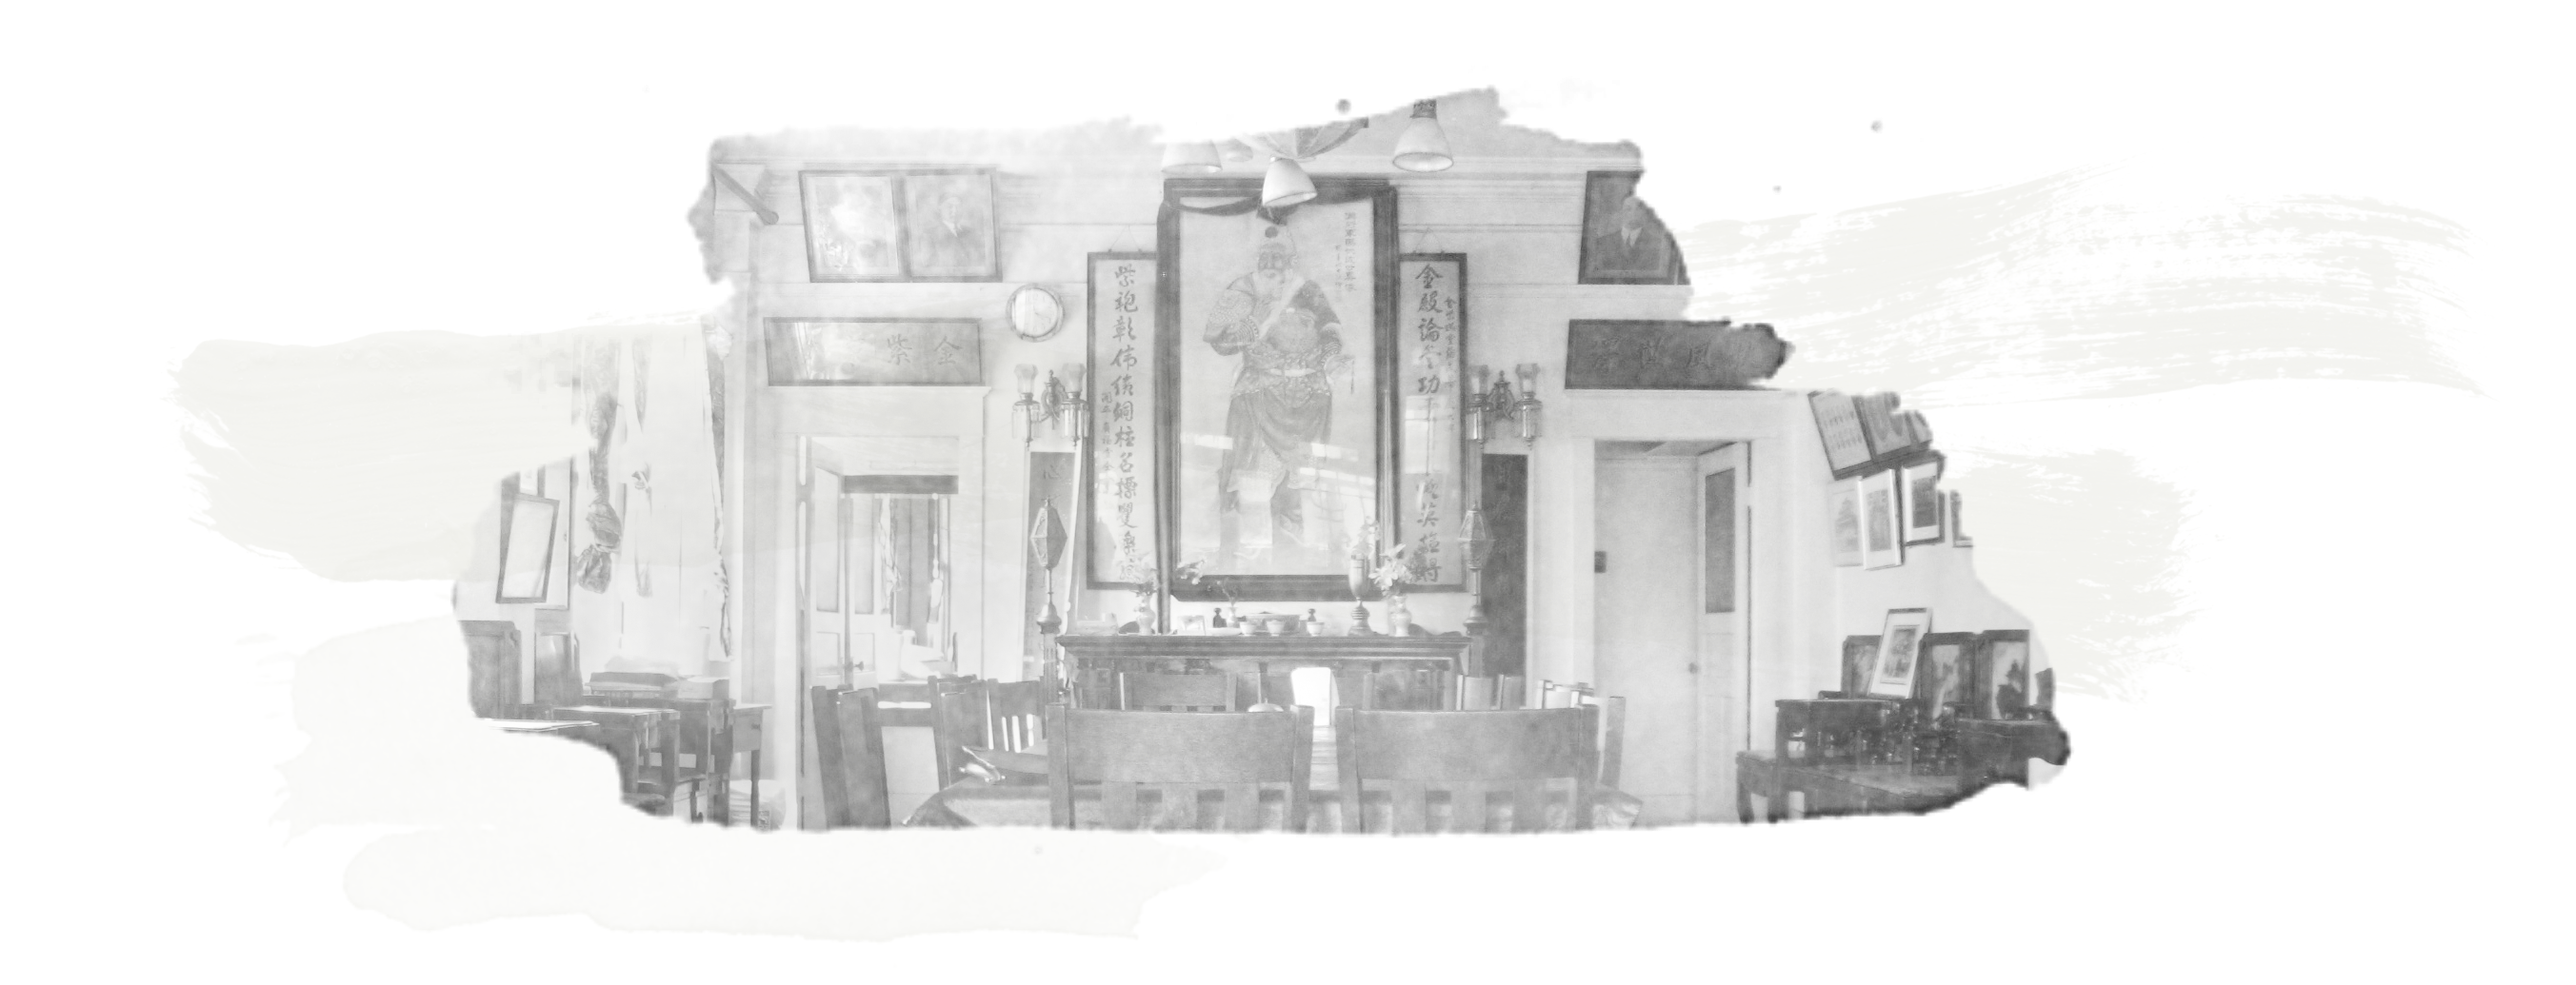
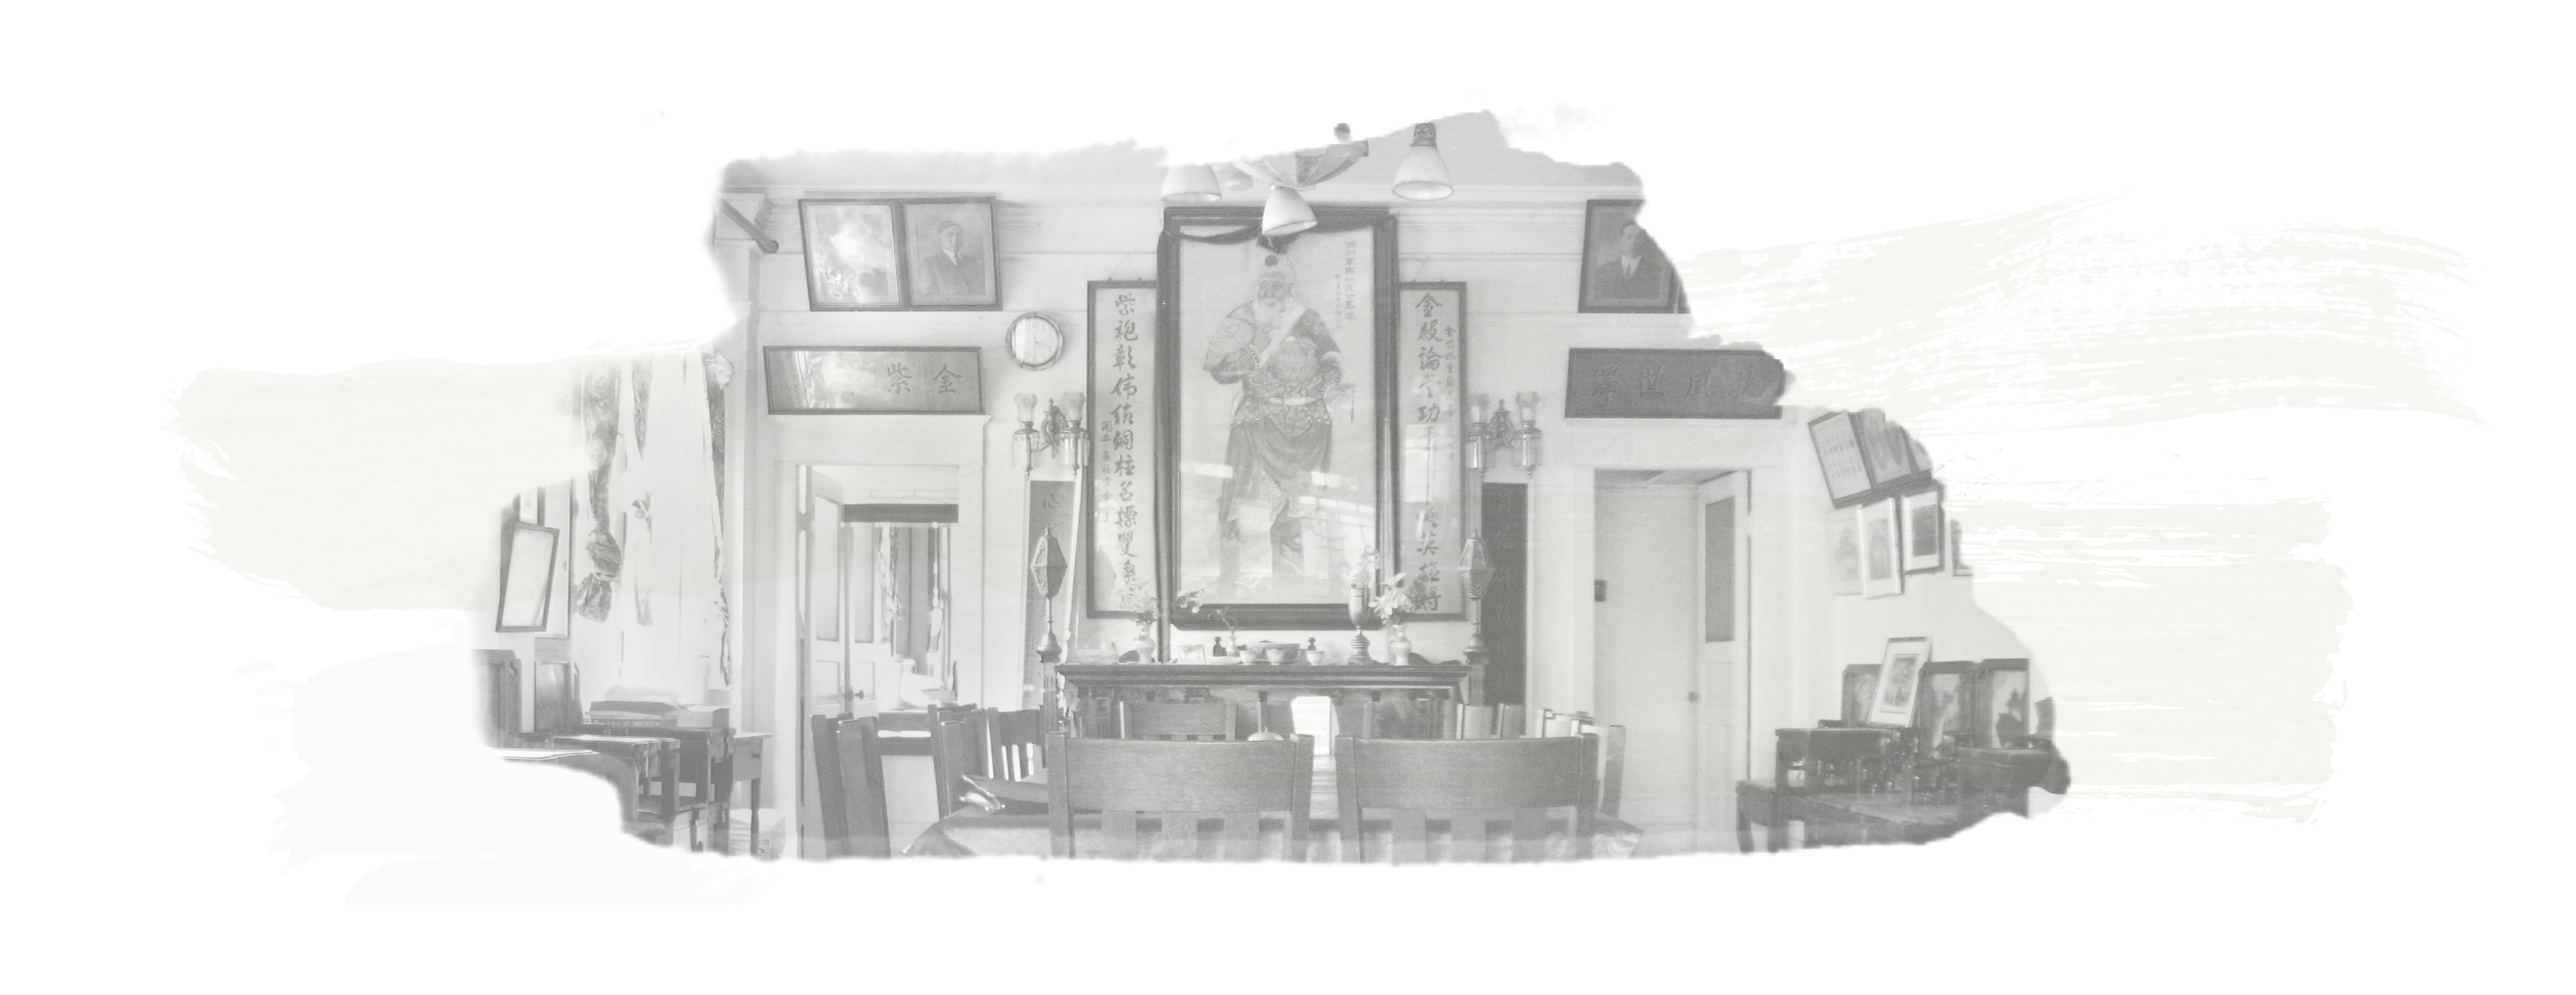
edit stylings

Changed region(s): [[0.1553, 0.0928, 0.8074, 0.8657], [0.6521, 0.6184, 0.6832, 0.6493]]

diff --git a/app/page.html b/app/page.html
@@ -57,7 +57,7 @@
         </nav>
         <div class='m-nav__overlay'></div>
 
-        <header class='l-header u-padding-top-10 u-padding-bottom-4'>
+        <header class='l-header u-padding-top-10 u-padding-bottom-5'>
             <div class='l-header__bg--fade' style='background-image:url("images/societies-header.png");'></div>
             <div class='l-section__content u-padding-top-5 u-flex-justify-center'>
                 <div>
@@ -103,10 +103,10 @@
 
         <section class='l-section u-margin-top-4 u-margin-bottom-7'>
             <div class='l-section__content u-flex-justify-center'>
-                <div class='l-module--society-list'>
+                <div class='l-module'>
                     <h3>Societies with Heritage Buildings <span class='o-label u-margin-left-0'>12 Buildings Total</span></h3>
 
-                    <div class='l-module--society-list-item u-margin-top-2'>
+                    <div class='l-module--society-list u-margin-top-2'>
                         <img src='http://placehold.it/500x400'>
                         <div>
                             <h4 class='u-color-primary'>Yue Shan Society</h4>
@@ -114,54 +114,53 @@
                             <a class='o-button--link-secondary' href='#'>Learn More</a>
                         </div>
                     </div>
-                    <div class='l-module--society-list-item u-margin-top-2'>
-                        <img src='http://placehold.it/500x400'>
+                </div>
+            </div>
+        </section>
+
+        <section class='l-section'>
+            <div class='l-section__content u-flex-justify-center'>
+                <div class='l-module'>
+                    <h3 class='u-margin-bottom-1'>Relevant Studies</h3>
+
+                    <div class='l-module--initiative-study u-margin-top-1'>
+                        <h4 class='u-margin-top-none'>Revitalizing Chinatown in Downtown Vancouver</h4>
+                        <p class='u-margin-top-none'><span class='o-label u-block u-margin-bottom-0'>summary</span> Lorem, ipsum dolor sit amet consectetur adipisicing elit. Veniam harum labore itaque facilis officiis commodi laudantium autem, minima corporis debitis.</p>
                         <div>
-                            <h4 class='u-color-primary'>Yue Shan Society</h4>
-                            <p>Lorem ipsum, dolor sit amet consectetur adipisicing elit. Libero eligendi sed dignissimos reprehenderit sunt rem necessitatibus? Blanditiis soluta delectus accusamus maxime amet nisi eos quisquam eum sit minima! Dignissimos, sapiente?</p>
-                            <a class='o-button--link-secondary' href='#'>Learn More</a>
+                            <span class='o-label'>Published</span>
+                            <p>July 23, 2017</p>
                         </div>
+                        <a class='o-button--link' href='#'>Link <span class='fa fa-link u-margin-left--1'></span></a>
                     </div>
-                    <div class='l-module--society-list-item u-margin-top-2'>
-                        <img src='http://placehold.it/500x400'>
+                    <div class='l-module--initiative-study'>
+                        <h4 class='u-margin-top-none'>Revitalizing Chinatown in Downtown Vancouver</h4>
+                        <p class='u-margin-top-none'><span class='o-label u-block u-margin-bottom-0'>summary</span> Lorem, ipsum dolor sit amet consectetur adipisicing elit. Veniam harum labore itaque facilis officiis commodi laudantium autem, minima corporis debitis.</p>
                         <div>
-                            <h4 class='u-color-primary'>Mah Benevolent Society</h4>
-                            <p>Lorem ipsum, dolor sit amet consectetur adipisicing elit. Libero eligendi sed dignissimos reprehenderit sunt rem necessitatibus? Blanditiis soluta delectus accusamus maxime amet nisi eos quisquam eum sit minima! Dignissimos, sapiente?</p>
-                            <a class='o-button--link-secondary' href='#'>Learn More</a>
+                            <span class='o-label'>Published</span>
+                            <p>July 23, 2017</p>
                         </div>
+                        <a class='o-button--link' href='#'>Link <span class='fa fa-link u-margin-left--1'></span></a>
                     </div>
-                    <div class='l-module--society-list-item u-margin-top-2'>
-                        <img src='http://placehold.it/500x400'>
+                    <div class='l-module--initiative-study'>
+                        <h4 class='u-margin-top-none'>Revitalizing Chinatown in Downtown Vancouver</h4>
+                        <p class='u-margin-top-none'><span class='o-label u-block u-margin-bottom-0'>summary</span> Lorem, ipsum dolor sit amet consectetur adipisicing elit. Veniam harum labore itaque facilis officiis commodi laudantium autem, minima corporis debitis.</p>
                         <div>
-                            <h4 class='u-color-primary'>Yue Shan Society</h4>
-                            <p>Lorem ipsum, dolor sit amet consectetur adipisicing elit. Libero eligendi sed dignissimos reprehenderit sunt rem necessitatibus? Blanditiis soluta delectus accusamus maxime amet nisi eos quisquam eum sit minima! Dignissimos, sapiente?</p>
-                            <a class='o-button--link-secondary' href='#'>Learn More</a>
+                            <span class='o-label'>Published</span>
+                            <p>July 23, 2017</p>
                         </div>
+                        <a class='o-button--link' href='#'>Link <span class='fa fa-link u-margin-left--1'></span></a>
                     </div>
-                    <div class='l-module--society-list-item u-margin-top-2'>
-                        <img src='http://placehold.it/500x400'>
+                    <div class='l-module--initiative-study'>
+                        <h4 class='u-margin-top-none'>Revitalizing Chinatown in Downtown Vancouver</h4>
+                        <p class='u-margin-top-none'><span class='o-label u-block u-margin-bottom-0'>summary</span> Lorem, ipsum dolor sit amet consectetur adipisicing elit. Veniam harum labore itaque facilis officiis commodi laudantium autem, minima corporis debitis.</p>
                         <div>
-                            <h4 class='u-color-primary'>Yue Shan Society</h4>
-                            <p>Lorem ipsum, dolor sit amet consectetur adipisicing elit. Libero eligendi sed dignissimos reprehenderit sunt rem necessitatibus? Blanditiis soluta delectus accusamus maxime amet nisi eos quisquam eum sit minima! Dignissimos, sapiente?</p>
-                            <a class='o-button--link-secondary' href='#'>Learn More</a>
+                            <span class='o-label'>Published</span>
+                            <p>July 23, 2017</p>
                         </div>
+                        <a class='o-button--link' href='#'>Link <span class='fa fa-link u-margin-left--1'></span></a>
                     </div>
-                    <div class='l-module--society-list-item u-margin-top-2'>
-                        <img src='http://placehold.it/500x400'>
-                        <div>
-                            <h4 class='u-color-primary'>Yue Shan Society</h4>
-                            <p>Lorem ipsum, dolor sit amet consectetur adipisicing elit. Libero eligendi sed dignissimos reprehenderit sunt rem necessitatibus? Blanditiis soluta delectus accusamus maxime amet nisi eos quisquam eum sit minima! Dignissimos, sapiente?</p>
-                            <a class='o-button--link-secondary' href='#'>Learn More</a>
-                        </div>
-                    </div>
-                    <div class='l-module--society-list-item u-margin-top-2'>
-                        <img src='http://placehold.it/500x400'>
-                        <div>
-                            <h4 class='u-color-primary'>Yue Shan Society</h4>
-                            <p>Lorem ipsum, dolor sit amet consectetur adipisicing elit. Libero eligendi sed dignissimos reprehenderit sunt rem necessitatibus? Blanditiis soluta delectus accusamus maxime amet nisi eos quisquam eum sit minima! Dignissimos, sapiente?</p>
-                            <a class='o-button--link-secondary' href='#'>Learn More</a>
-                        </div>
-                    </div>
+
+
                 </div>
             </div>
         </section>

diff --git a/app/initiatives.html b/app/initiatives.html
@@ -57,12 +57,11 @@
         </nav>
         <div class='m-nav__overlay'></div>
 
-        <header class='l-header u-padding-top-10 u-padding-bottom-4'>
-            <div class='l-header__bg--fade' style='background-image:url("images/test.png");'></div>
-            <div class='l-section__content u-padding-top-5 u-flex-justify-center'>
-                <div class='u-type-center'>
+        <header class='l-header u-padding-top-7 u-padding-bottom-4'>
+            <div class='l-section__content u-padding-top-5'>
+                <div>
                     <span class='o-label u-color-secondary-accent'>Societies</span>
-                    <h1 class='u-stroke-text u-stroke-2 u-type-contain-large'>Building Plannings and Development Grant Program<span>華埠僑團傳</span></h1>
+                    <h1 class='u-type-contain-large'>Building Plannings and Development Grant Program</h1>
                     <p class='u-type-subtitle u-inline-block u-type-contain u-color-dark'>The Building Plannings Grant Program lets us start with the question of what is economical and right for the neighbourhood.</p>
                 </div>
             </div>
@@ -76,7 +75,7 @@
 
         <section class='l-section'>
             <div class='l-section__content u-flex-justify-center'>
-                <figure class='l-module--img-full u-margin-top-2 u-margin-bottom-3'>
+                <figure class='l-module--img-full u-margin-top-2 u-margin-bottom-5'>
                     <img src='images/test.png'>
                 </figure>
 
@@ -85,6 +84,8 @@
                         <p>Lorem ipsum dolor sit amet consectetur adipisicing elit. Ex assumenda nam vel tenetur molestiae nostrum et deserunt nesciunt vitae veritatis perferendis doloribus consectetur doloremque placeat porro voluptas earum, labore praesentium asperiores rerum, incidunt ad provident? Odit, quidem neque animi nostrum, accusantium saepe eum facilis non, architecto ducimus perferendis cumque nemo fuga possimus quibusdam mollitia at numquam? Blanditiis, quasi cupiditate. Molestiae earum hic nam ea facilis iste perferendis reprehenderit aliquam provident, rem exercitationem voluptas sint assumenda minima ullam eaque ut eos?</p>
                         <h3>What are heritage societies?</h3>
                         <p>Lorem ipsum dolor sit amet consectetur, adipisicing elit. Temporibus ipsa veniam aliquam explicabo perspiciatis exercitationem atque aliquid voluptates, quibusdam minima dolorum pariatur vel et corporis delectus debitis harum neque eum!</p>
+
+
                     </div>
                     <div class='l-module--sidebar-right'>
                         <span class='o-label'>Details</span>
@@ -98,7 +99,7 @@
         </section>
 
 
-        <footer class='l-footer u-margin-top-6'>
+        <footer class='l-footer u-margin-top-7'>
             <div class="l-footer__main">
                 <div class='l-footer__section'>
                     <img class='u-image-no-responsive u-image-no-shadow' src='images/logo-white.png'>

diff --git a/app/scss/layout/_modules.scss b/app/scss/layout/_modules.scss
@@ -47,8 +47,13 @@ $module: (
 
     // sidebars
     &--sidebar {
-        flex: 1 1 300px;
-        margin: ms(1);
+        flex: 0 1 300px;
+        margin: ms(1) ms(3);
+
+        @include breakpoint(1370px) { 
+            margin: ms(1);
+            flex-grow: 1; 
+        }
 
         &-left, &-right { @extend .l-module--sidebar; }
 
@@ -73,10 +78,6 @@ $module: (
     @extend .l-module;
 
     &-list {
-        @extend .l-module--society; 
-    }
-
-    &-list-item {
         width: 100%;
 
         display: flex;
@@ -97,6 +98,37 @@ $module: (
             max-width: 750px;
             @include breakpoint(1200px) { font-size: ms(-1); }  
             @include breakpoint(830px) { display: none; }   
+        }
+    }
+}
+
+.l-module--initiative {
+    &-study {
+        border-top: 1px solid map-get($color, subtle);
+
+        padding: ms(2) 0 ms(2);
+
+        @include breakpoint(map-get($bp, med) min-width) {
+            display: flex;
+            width: 100%;
+            flex-wrap: nowrap;
+            justify-content: space-between;
+            align-items: flex-start;
+
+            padding-top: ms(3);
+    
+            & > p { 
+                width: span(5); 
+            }
+            & > h4 { 
+                width: span(4); 
+            }
+            & > div {
+                width: span(2);
+            }
+            & > a {
+                width: span(1);
+            }
         }
     }
 }

diff --git a/app/index.html b/app/index.html
@@ -238,7 +238,7 @@
                 </div>
                 <div class='l-footer__section'>
                     <ul class='m-menu--vertical'>
-                        <li class='u-padding-bottom-1'><h5 class='u-color-background'>Navigation</h5></li> 
+                        <li class='u-padding-bottom-1'><h5 class='u-color-background u-margin-top-none'>Navigation</h5></li> 
                         <li class='u-padding-bottom-1'><a href='#' class='o-label'>Home</a></li> 
                         <li class='u-padding-bottom-1'><a href='#' class='o-label'>About</a></li>
                         <li class='u-padding-bottom-1'><a href='#' class='o-label'>Societies</a></li>

diff --git a/app/scss/layout/_core.scss b/app/scss/layout/_core.scss
@@ -47,7 +47,7 @@
                 @extend .l-section__bg; 
     
                 z-index: -9;
-                background: linear-gradient(to bottom, rgba(white,0.5) 0%, rgba(white,0.5) 35%, rgba(map-get($color, background),1) 100%); 
+                background: linear-gradient(to bottom, rgba(white, 0) 0%, rgba(white, 0.5) 65%, rgba(map-get($color, background),1) 100%); 
             }
         }
     }

diff --git a/app/scss/utilities/_stroke.scss b/app/scss/utilities/_stroke.scss
@@ -48,9 +48,9 @@
             z-index: -1;
 
             font-family: 'SimSun';
+            font-size: ms(2);
 
-            color: rgba(map-get($color, dark), 0.1);
-            @include ms-respond(font-size, 2);
+            color: rgba(map-get($color, dark), 0.2);
         }
     }    
 }
